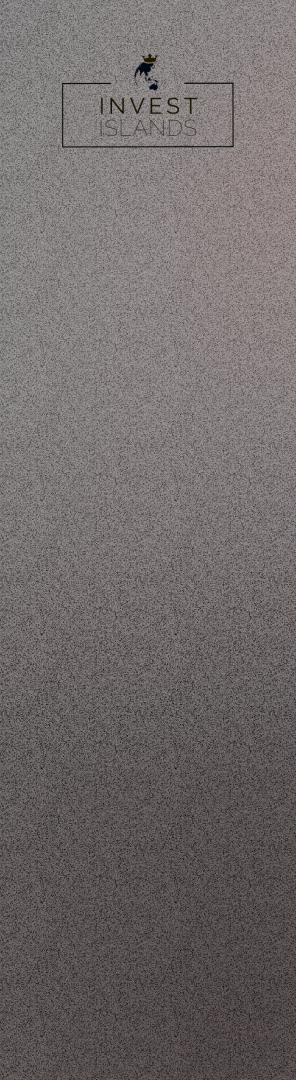
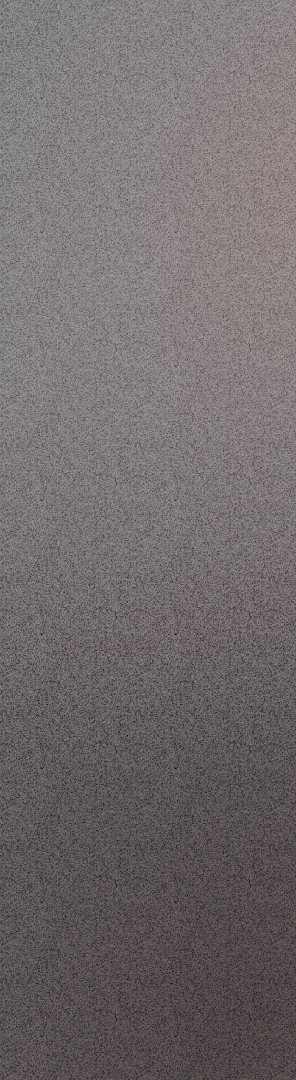
PUSH HAHAHA

diff --git a/public/css/style.css b/public/css/style.css
@@ -70,7 +70,6 @@
 }
 
 .side_bg{
-    padding-top: 190px;
     width: 300px;
     height: 100%;
     margin-top:-10px;
@@ -80,23 +79,31 @@
     
 }
 
+.side_bg img{
+    width: 200px;
+    height: 200px;
+    margin-left: 48px;
+}
+
 .active {
     background: rgba(255, 255, 255, 0.5);
     border-radius: 20px;
     }
 
 .sub_menu {
-    margin-left: 50px;
+    margin-left: 20px;
     width: 250px;
     height: 70px;
+    
 }
 
-.sub_menu p {
+.sub_menu a {
+    text-decoration: none;
     font-family: Poppins;
     font-style: normal;
     font-weight: normal;
     font-size: 20px;
-    line-height: 30px;
+    line-height: 20px;
     display: flex;
     align-items: center;
     display: inline;
@@ -105,6 +112,17 @@
 }
 
 .sub_menu img {
-    width: 21px;
-    height: 24.07px;
+    padding-top: 20px;
+    width: 25px;
+    height: 25px;
+}
+
+.header{
+    background-image: url("../images/gradienttidur.png");
+    width: 74px;
+    height: 1624px;
+    transform: rotate(90deg);
+    left: 300px;
+    top: 0px;
+    float: right;
 }

diff --git a/resources/views/layout/sidebar.blade.php b/resources/views/layout/sidebar.blade.php
@@ -4,26 +4,28 @@
     </head>
     <body>
         <div class="side_bg"  >
-        <div class="sub_menu">
-        <img src="{{asset('images/home_fill.png')}}" > 
-            <p>
-                Dashboard
-            </p>
-        </div>
+            <img src="{{asset('images/invest_sidebar.png')}}" >   
+            @include('layout.header')
+            <div class="sub_menu">
+                <img src="{{asset('images/home_fill.png')}}" > 
+                <a href="#">
+                    Dashboard
+                </a>
+            </div>
 
-        <div class="sub_menu">
-        <img src="{{asset('images/folder_fill.png')}}"> 
-            <p>
-                Project
-            </p>
-        </div>
+            <div class="sub_menu">
+                <img src="{{asset('images/folder_fill.png')}}"> 
+                <a href="#">
+                    Project
+                </a>
+            </div>
 
-        <div class="sub_menu"> 
-            <img src="{{asset('images/users_fill.png')}}">
-            <p>
-                Users
-            </p>
-        </div>
+            <div class="sub_menu"> 
+                <img src="{{asset('images/users_fill.png')}}">
+                <a href="#">
+                    Users
+                </a>
+            </div>
         </div>
         
     </body>

diff --git a/resources/views/layout/header.blade.php b/resources/views/layout/header.blade.php
@@ -1,20 +1,7 @@
 
-<html>
-    <head>
-        <style>
-            body {
-                background-size: cover;
-                background-image: url("images/gradient.svg");
-                left: 0px;
-                top: -6px;
-                background-repeat: no-repeat;
-                background-attachment: fixed;
-            }
-        </style>
-        <link rel="stylesheet" type="text/css" href="{{asset('css/style.css')}}">
-    </head>
-    <body>
+    
+    
+        <div class="header">
 
-        @yield('content')
-    </body>
-</html>
+        </div>
+    

diff --git a/resources/views/layout/bg.blade.php b/resources/views/layout/bg.blade.php
@@ -1,0 +1,20 @@
+
+<html>
+    <head>
+        <style>
+            body {
+                background-size: cover;
+                background-image: url("images/gradient.svg");
+                left: 0px;
+                top: -6px;
+                background-repeat: no-repeat;
+                background-attachment: fixed;
+            }
+        </style>
+        <link rel="stylesheet" type="text/css" href="{{asset('css/style.css')}}">
+    </head>
+    <body>
+
+        @yield('content')
+    </body>
+</html>

diff --git a/resources/views/login.blade.php b/resources/views/login.blade.php
@@ -1,4 +1,4 @@
-@extends('layout.header')
+@extends('layout.bg')
 
 @section('content') 
 

diff --git a/resources/views/welcome.blade.php b/resources/views/welcome.blade.php
@@ -1,4 +1,4 @@
-@extends('layout.header')
+@extends('layout.bg')
 
 @section('content') 
 
